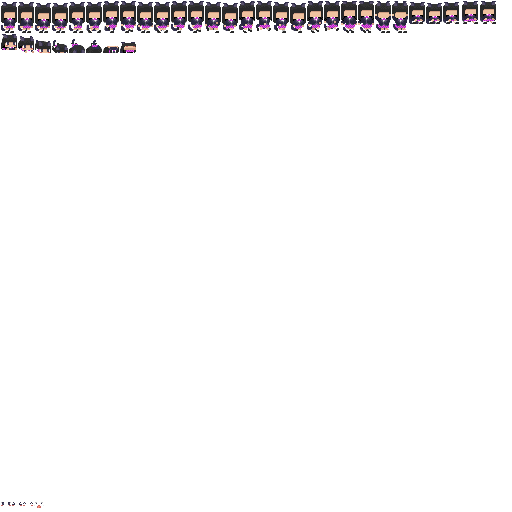
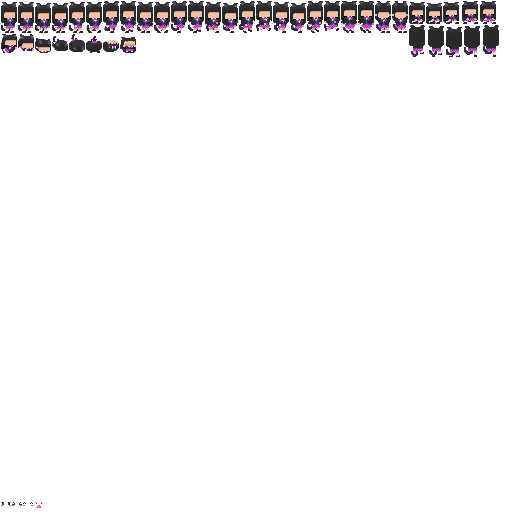
521

Changed region(s): [[0.7812, 0.0312, 1.0, 0.125], [0.0, 0.0625, 0.2812, 0.125]]

diff --git a/Assets/Yaya/Script/Entity/Character/CharacterRenderer.cs b/Assets/Yaya/Script/Entity/Character/CharacterRenderer.cs
@@ -76,6 +76,12 @@ namespace Yaya {
 		protected eCharacter Character { get; private set; } = null;
 		public int FaceIndex { get; set; } = 0;
 
+		// Ser
+		[SerializeField] int[] BounceAmounts = new int[] { 500, 200, 100, 50, 25, 50, 100, 200, 500, };
+		[SerializeField] int[] BounceAmountsBig = new int[] { 0, -600, -900, -1200, -1400, -1200, -900, -600, 0, };
+		[SerializeField] int Bouncy = 150;
+		[SerializeField] int PoundingBounce = 2000;
+
 		// Data
 		private AniCode Ani_Idle = null;
 		private AniCode Ani_Walk = null;
@@ -90,10 +96,12 @@ namespace Yaya {
 		private AniCode Ani_SwimDash = null;
 		private AniCode Ani_Pound = null;
 		private AniCode Ani_Climb = null;
+		private AniCode Ani_Roll = null;
 		private AniCode CurrentAni = null;
 		private GroupCode Face = null;
 		private int CurrentAniFrame = 0;
 		private int CurrentCode = 0;
+		private int CurrentBounce = 1000;
 
 
 		#endregion
@@ -113,31 +121,35 @@ namespace Yaya {
 			Ani_Run = new($"_a{name}.Run", $"_a{name}.Walk", $"_a{name}.Idle");
 			Ani_JumpU = new($"_a{name}.JumpU", $"_a{name}.Idle");
 			Ani_JumpD = new($"_a{name}.JumpD", $"_a{name}.Idle");
-			Ani_Dash = new($"_a{name}.Dash", $"_a{name}.Run");
+			Ani_Roll = new($"_a{name}.Roll", $"_a{name}.Run");
+			Ani_Dash = new($"_a{name}.Dash", $"_a{name}.Roll");
 			Ani_SquatIdle = new($"_a{name}.SquatIdle", $"_a{name}.Idle");
 			Ani_SquatMove = new($"_a{name}.SquatMove", $"_a{name}.Walk");
 			Ani_SwimIdle = new($"_a{name}.SwimIdle", $"_a{name}.Idle");
 			Ani_SwimMove = new($"_a{name}.SwimMove", $"_a{name}.Run");
 			Ani_SwimDash = new($"_a{name}.SwimDash", $"_a{name}.Run");
 			Ani_Pound = new($"_a{name}.Pound", $"_a{name}.Idle");
-			Ani_Climb = new($"_a{name}.Climb", $"_a{name}.Idle");
+			Ani_Climb = new($"_a{name}.Climb", $"_a{name}.Walk");
 			Face = new($"{name}.Face");
 		}
 
 
-		public void FrameUpdate () {
-			DrawCharacter();
+		public void FrameUpdate (int frame) {
+			DrawCharacter(frame);
 			DrawFace();
 		}
 
 
-		private void DrawCharacter () {
+		private void DrawCharacter (int frame) {
+
 			var movement = Character.Movement;
 			AniCode ani;
 			if (movement.IsClimbing) {
 				ani = Ani_Climb;
 			} else if (movement.IsPounding) {
 				ani = Ani_Pound;
+			} else if (movement.IsRolling) {
+				ani = Ani_Roll;
 			} else if (movement.IsDashing) {
 				ani = !movement.IsGrounded && movement.InWater ? Ani_SwimDash : Ani_Dash;
 			} else if (movement.IsSquating) {
@@ -149,11 +161,15 @@ namespace Yaya {
 			} else {
 				ani = movement.IsRunning ? Ani_Run : movement.IsMoving ? Ani_Walk : Ani_Idle;
 			}
+
+			// Reset Frame when Switch Ani
 			if (CurrentAni != ani) {
 				CurrentAniFrame = 0;
 				CurrentAni = ani;
 			}
-			CellRenderer.Draw_Animation(
+
+			// Draw
+			ref var cell = ref CellRenderer.Draw_Animation(
 				CurrentAni.Code,
 				Character.X, Character.Y, 500, 0, 0,
 				movement.FacingRight ? Const.ORIGINAL_SIZE : Const.ORIGINAL_SIZE_NEGATAVE,
@@ -162,26 +178,82 @@ namespace Yaya {
 				ani.LoopStart
 			);
 			CurrentCode = CellRenderer.LastDrawnID;
-			CurrentAniFrame++;
+
+			// Bouncy
+			if (Bouncy > 0) {
+				int bounce = 1000;
+				int duration = BounceAmounts.Length;
+				bool reverse = false;
+				if (movement.IsSquating && frame.InRangeExculde(movement.LastSquatFrame, movement.LastSquatFrame + duration)) {
+					bounce = BounceAmounts[frame - movement.LastSquatFrame];
+				}
+				if (movement.IsGrounded && frame.InRangeExculde(movement.LastGroundFrame, movement.LastGroundFrame + duration)) {
+					bounce = BounceAmounts[frame - movement.LastGroundFrame];
+				}
+				if (!movement.IsSquating && frame.InRangeExculde(movement.LastSquatingFrame, movement.LastSquatingFrame + duration)) {
+					bounce = BounceAmounts[frame - movement.LastSquatingFrame];
+					reverse = true;
+				}
+				if (!movement.IsPounding && frame.InRangeExculde(movement.LastPoundingFrame, movement.LastPoundingFrame + duration)) {
+					bounce = BounceAmountsBig[frame - movement.LastPoundingFrame];
+				}
+				if (movement.IsPounding) {
+					bounce = PoundingBounce;
+				}
+				if (bounce != 1000) {
+					bounce = (int)Util.RemapUnclamped(0, 1000, 1000 - Bouncy, 1000, bounce);
+					if (reverse) {
+						cell.Width = cell.Width * bounce / 1000;
+						cell.Height += cell.Height * (1000 - bounce) / 1000;
+					} else {
+						cell.Width += cell.Width * (1000 - bounce) / 1000;
+						cell.Height = cell.Height * bounce / 1000;
+					}
+				}
+				CurrentBounce = reverse ? -bounce : bounce;
+			}
+
+			// Grow Ani Frame
+			if (ani == Ani_Climb) {
+				if (movement.FinalVelocityY > 0) {
+					CurrentAniFrame++;
+				} else if (movement.FinalVelocityY < 0) {
+					CurrentAniFrame--;
+				}
+			} else {
+				CurrentAniFrame++;
+			}
 		}
 
 
 		private void DrawFace () {
-			if (Face.Count > 0 && CellRenderer.TryGetCharacterMeta(CurrentCode, out var cMeta) && cMeta.Head.IsVailed) {
-				var movement = Character.Movement;
-				CellRenderer.Draw_9Slice(
-					Face[FaceIndex],
-					Character.X - cMeta.SpriteWidth / 2 +
-						(movement.FacingRight ?
-							cMeta.Head.X :
-							cMeta.SpriteWidth - (cMeta.Head.X + cMeta.Head.Width)
-						),
-					Character.Y + cMeta.Head.Y + cMeta.Head.Height,
-					0, 1000, 0,
-					cMeta.Head.Width,
-					Const.ORIGINAL_SIZE
-				);
+			if (
+				Face.Count <= 0 ||
+				!CellRenderer.TryGetCharacterMeta(CurrentCode, out var cMeta) ||
+				!cMeta.Head.IsVailed ||
+				!cMeta.Head.Front
+			) return;
+			var movement = Character.Movement;
+			int bounce = Mathf.Abs(CurrentBounce);
+			int offsetY;
+			if (CurrentBounce > 0) {
+				offsetY = (cMeta.Head.Y + cMeta.Head.Height) * bounce / 1000;
+			} else {
+				offsetY = cMeta.Head.Y + cMeta.Head.Height;
+				offsetY += offsetY * (1000 - bounce) / 1000;
 			}
+			CellRenderer.Draw_9Slice(
+				Face[FaceIndex],
+				Character.X - cMeta.SpriteWidth / 2 +
+					(movement.FacingRight ?
+						cMeta.Head.X :
+						cMeta.SpriteWidth - (cMeta.Head.X + cMeta.Head.Width)
+					),
+				Character.Y + offsetY,
+				0, 1000, 0,
+				cMeta.Head.Width,
+				Const.ORIGINAL_SIZE
+			);
 		}
 
 

diff --git a/Assets/Yaya/Script/Entity/Character/CharacterMovement.cs b/Assets/Yaya/Script/Entity/Character/CharacterMovement.cs
@@ -29,13 +29,25 @@ namespace Yaya {
 		public bool IsGrounded => Rig.IsGrounded;
 		public bool InWater => Rig.InWater;
 		public bool IsInAir => Rig.IsInAir;
+		public bool IsMoving => IntendedX != 0;
+		public bool IsRunning => IsMoving && MovingAccumulateFrame >= RunTrigger;
+		public bool IsRolling => !InWater && !IsPounding && ((JumpRoll && CurrentJumpCount > 0) || (JumpSecondRoll && CurrentJumpCount > 1));
 		public int CurrentJumpCount { get; private set; } = 0;
 		public bool FacingRight { get; private set; } = true;
 		public bool FacingFront { get; private set; } = true;
-		public bool IsMoving => IntendedX != 0;
-		public bool IsRunning => IsMoving && MovingAccumulateFrame >= RunTrigger;
 		public int FinalVelocityX => Rig.FinalVelocityX;
 		public int FinalVelocityY => Rig.FinalVelocityY;
+		public bool JumpWithRoll => JumpRoll;
+		public bool JumpSecondWithRoll => JumpSecondRoll;
+		public int MovingAccumulateFrame { get; private set; } = 0;
+		public int LastGroundFrame { get; private set; } = int.MinValue;
+		public int LastGroundingFrame { get; private set; } = int.MinValue;
+		public int LastEndMoveFrame { get; private set; } = int.MinValue;
+		public int LastJumpFrame { get; private set; } = int.MinValue;
+		public int LastDashFrame { get; private set; } = int.MinValue;
+		public int LastSquatFrame { get; private set; } = int.MinValue;
+		public int LastSquatingFrame { get; private set; } = int.MinValue;
+		public int LastPoundingFrame { get; private set; } = int.MinValue;
 
 		// Short
 		private int CurrentDashDuration => InWater && SwimInFreeStyle ? FreeSwimDashDuration : DashDuration;
@@ -59,6 +71,8 @@ namespace Yaya {
 		[SerializeField] int JumpReleaseLoseRate = 700;
 		[SerializeField] int JumpRaiseGravityRate = 600;
 		[SerializeField] bool JumpThroughOneway = false;
+		[SerializeField] bool JumpRoll = false;
+		[SerializeField] bool JumpSecondRoll = false;
 
 		[SerializeField] bool DashAvailable = true;
 		[SerializeField] int DashSpeed = 42;
@@ -71,7 +85,7 @@ namespace Yaya {
 		[SerializeField] int SquatSpeed = 8;
 		[SerializeField] int SquatAcceleration = 48;
 		[SerializeField] int SquatDecceleration = 48;
-		[SerializeField] int SquatHeight = 80;
+		[SerializeField] int SquatHeight = 200;
 
 		[SerializeField] bool PoundAvailable = true;
 		[SerializeField] int PoundSpeed = 96;
@@ -96,17 +110,13 @@ namespace Yaya {
 		private int CurrentFrame = 0;
 		private int IntendedX = 0;
 		private int IntendedY = 0;
-		private int LastGroundedFrame = int.MinValue;
-		private int LastEndMoveFrame = int.MinValue;
-		private int MovingAccumulateFrame = 0;
-		private int LastJumpFrame = int.MinValue;
-		private int LastDashFrame = int.MinValue;
 		private bool HoldingJump = false;
 		private bool PrevHoldingJump = false;
 		private bool IntendedJump = false;
 		private bool IntendedDash = false;
 		private bool IntendedPound = false;
 		private bool PrevInWater = false;
+		private bool PrevGrounded = false;
 		private int? ClimbPositionCorrect = null;
 		private RectInt Hitbox = default;
 		private Vector2Int LastMoveDirection = default;
@@ -144,7 +154,9 @@ namespace Yaya {
 		private void Update_Cache () {
 
 			// Ground
-			if (IsGrounded) LastGroundedFrame = CurrentFrame;
+			if (IsGrounded) LastGroundingFrame = CurrentFrame;
+			if (!PrevGrounded && IsGrounded) LastGroundFrame = CurrentFrame;
+			PrevGrounded = IsGrounded;
 
 			// Climb
 			ClimbPositionCorrect = null;
@@ -189,25 +201,24 @@ namespace Yaya {
 			PrevInWater = InWater;
 
 			// Squat
-			IsSquating =
+			bool squating =
 				SquatAvailable && IsGrounded && !IsClimbing && !IsInsideGround &&
 				((!IsDashing && IntendedY < 0) || ForceSquatCheck());
+			if (!IsSquating && squating) LastSquatFrame = CurrentFrame;
+			if (squating) LastSquatingFrame = CurrentFrame;
+			IsSquating = squating;
 
 			// Pound
 			IsPounding = PoundAvailable && !IsGrounded && !IsClimbing && !InWater && !IsDashing && !IsInsideGround &&
 				(IsPounding ? IntendedY < 0 : IntendedPound);
+			if (IsPounding) LastPoundingFrame = CurrentFrame;
 
 			// Facing
 			FacingRight = LastMoveDirection.x > 0;
 			FacingFront = !IsClimbing;
 
 			// Physics
-			Hitbox = new(
-				Rig.X - Width / 2,
-				Rig.Y,
-				Width,
-				IsSquating || (IsDashing && (!InWater || !SwimInFreeStyle)) ? SquatHeight : Height
-			);
+			Hitbox = new(Rig.X - Width / 2, Rig.Y, Width, GetCurrentHeight());
 			Rig.Width = Hitbox.width;
 			Rig.Height = Hitbox.height;
 			Rig.OffsetX = -Width / 2;
@@ -239,7 +250,7 @@ namespace Yaya {
 				IsClimbing = false;
 			}
 			// Fall off Edge
-			if (CurrentJumpCount == 0 && !IsGrounded && !InWater && !IsClimbing && CurrentFrame > LastGroundedFrame + JUMP_TOLERANCE) {
+			if (CurrentJumpCount == 0 && !IsGrounded && !InWater && !IsClimbing && CurrentFrame > LastGroundingFrame + JUMP_TOLERANCE) {
 				CurrentJumpCount++;
 			}
 			// Jump Release
@@ -437,6 +448,17 @@ namespace Yaya {
 				return 1;
 			}
 			return 0;
+		}
+
+
+		private int GetCurrentHeight () {
+			if (IsSquating) return SquatHeight;
+			if (IsDashing && (!InWater || !SwimInFreeStyle)) return SquatHeight;
+			if (!IsPounding && !InWater) {
+				if (JumpRoll && CurrentJumpCount > 0) return SquatHeight;
+				if (JumpSecondRoll && CurrentJumpCount > 1) return SquatHeight;
+			}
+			return Height;
 		}
 
 

diff --git a/Assets/Yaya/Script/Entity/Character/eCharacter.cs b/Assets/Yaya/Script/Entity/Character/eCharacter.cs
@@ -58,7 +58,7 @@ namespace Yaya {
 
 
 		public override void FrameUpdate (int frame) {
-			if (Renderer != null) Renderer.FrameUpdate();
+			if (Renderer != null) Renderer.FrameUpdate(frame);
 			base.FrameUpdate(frame);
 		}
 
